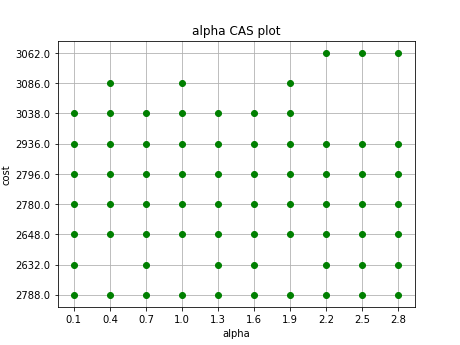
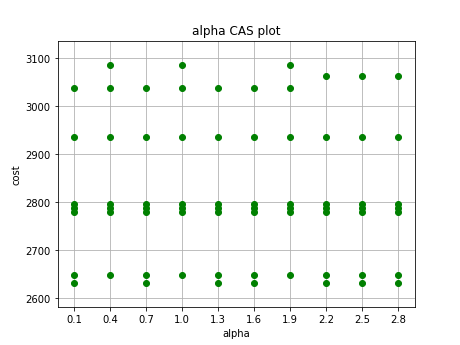
plots scale fixed

diff --git a/plots_generator/ParameterTester.py b/plots_generator/ParameterTester.py
@@ -18,19 +18,26 @@ class ParameterTester:
         for line in file:
             line = line.strip('\n')
             line_after_split = line.split(",")
-            self.test_cases.append(TestCase(line_after_split[0], line_after_split[1:len(line_after_split) - 1],
-                                            line_after_split[len(line_after_split) - 1]))
+            test_case = TestCase(
+                line_after_split[0],
+                line_after_split[1:len(line_after_split) - 1],
+                line_after_split[len(line_after_split) - 1]
+            )
+            test_case.fill_costs(7)
+            self.test_cases.append(test_case)
 
     def draw_cost_plot(self):
         plt.clf()
         self.set_plot_parameters(True, "cost")
         x = []
-        y = []
+        ys = []
         for test_case in self.test_cases:
-            for cost in test_case.costs:
-                x.append(test_case.param_value)
-                y.append(cost)
-        plt.plot(x, y, 'go')
+            x.append(test_case.param_value)
+            ys.append([float(value) for value in test_case.costs])
+        plt.ylim(min([min(y) for y in ys])-50, max([max(y) for y in ys])+50)
+        for n in range(len(ys[0])):
+            y = [item[n] for item in ys]
+            plt.plot(x, y, 'go')
         plt.savefig("test_plots/" + self.file_name[13:] + "_cost_plot", dpi=72)
 
     def draw_time_plot(self):
@@ -40,8 +47,9 @@ class ParameterTester:
         y = []
         for test_case in self.test_cases:
             x.append(test_case.param_value)
-            y.append(test_case.time)
-        plt.plot(x, y, 'b*')
+            y.append(int(test_case.time))
+        plt.ylim(0, max(y) + 5)
+        plt.plot(x, y, 'bo')
         plt.savefig("test_plots/" + self.file_name[13:] + "_time_plot", dpi=72)
 
     def set_plot_parameters(self, is_grid, y_label):

diff --git a/plots_generator/TestCase.py b/plots_generator/TestCase.py
@@ -4,3 +4,6 @@ class TestCase:
         self.param_value = param_value
         self.costs = costs
         self.time = time
+
+    def fill_costs(self, n):
+        self.costs += [None] * (n-len(self.costs))
